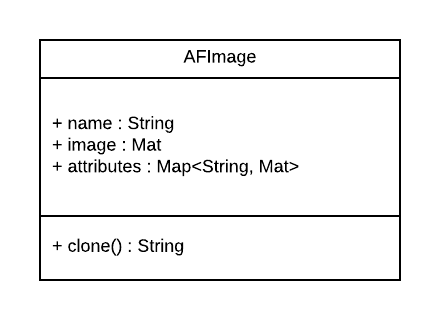
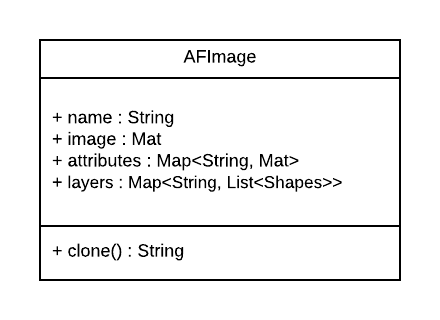
added dwg matrix fixed sharpening extension method

Changed region(s): [[0.1182, 0.3438, 0.7977, 0.5938], [0.0886, 0.6562, 0.9159, 0.7188], [0.1182, 0.75, 0.4136, 0.8125]]

diff --git a/afpars/src/main/kotlin/ch/fhnw/afpars/util/Extension.kt b/afpars/src/main/kotlin/ch/fhnw/afpars/util/Extension.kt
@@ -117,8 +117,9 @@ fun Mat.sharpen(sigmaX: Double = 3.0) {
 }
 
 fun Mat.sharpen(dest: Mat, sigmaX: Double = 3.0) {
-    Imgproc.GaussianBlur(this, dest, Size(0.0, 0.0), sigmaX)
-    Core.addWeighted(dest, 1.5, dest, -0.5, 0.0, dest)
+    val blurred = Mat()
+    Imgproc.GaussianBlur(this, blurred, Size(0.0, 0.0), sigmaX)
+    Core.addWeighted(this, 1.5, blurred, -0.5, 0.0, dest)
 }
 
 fun Mat.negate(dest: Mat) {

diff --git a/docs/thesis/Architecture.tex b/docs/thesis/Architecture.tex
@@ -21,9 +21,9 @@ Every part of the architecture has its own area of responsibility and is connect
 
 The software is built with the modern language \gls{gloss:Kotlin}, which is a statically typed programming language for the \acrfull{acro:JVM}. It supports special language features like extension methods, optional parameters and functional programming concepts, which all were used in this project and help to make the code more readable and maintainable. \cite{kotlin}
 
-The next sections show some examples where and how the new language are used in the software.
-
 \subsubsection{Extension Methods}
+This section show an example how the new language are used in the software.
+
 The language feature \flqq Extension Methods\frqq can be used to make the code more readable. It extends an existing object with a new method without the concept of inheritance.
 
 \begin{lstlisting}[caption={Erode image without extension methods},label={lst:imageOperations},language=Java]
@@ -47,17 +47,11 @@ image.threshold(128.0, 255.0, Imgproc.THRESH_BINARY)
 image.erode(3)
 \end{lstlisting}
 
-\subsubsection{Optional Parameters}
-
-\subsubsection{Functional Concepts}
-
-
-
 \pagebreak
 
-\subsection{Input / Output}
+\subsection{Meta Format}
 To support the different input and output formats the architecture uses a meta format for the
-floor plan images called AFImage. Different \gls{gloss:Drivers} \todo{Define drivers in the glossary} add the support for multiple file formats. With this architecture it is possible to extend the software with new file formats and work internally with the meta container.
+floor plan images called AFImage. Different \gls{gloss:Drivers} \todo{Define drivers in the glossary} add the support for multiple file formats. With this architecture it is possible to extend the software with new file formats and work internally with the meta container format.
 
 \begin{figure}[h]
   \centering
@@ -68,7 +62,33 @@ floor plan images called AFImage. Different \gls{gloss:Drivers} \todo{Define dri
 
 The meta container AFImage contains a map of attributes (see Figure \ref{fig:AFImage_CD}) which can be used by algorithms to get information created by other algorithms or to store information into an existing image.
 
-\todo{DWG / DXF Discussion}
+To interact with the user interface there is also a map of layers which contains shapes that are printed onto the image. The software uses this for example for recognised doors or rooms which are shown as overlay.
+
+\subsection{Input \& Output}
+
+\subsubsection{DWG / DXF}
+
+\begin{table}[h]
+\centering
+\caption{DWG / DXF Evaluation Result}
+\label{tbl:DWGEvaluationResult}
+\begin{tabular}{@{}lll@{}}
+\toprule
+Name         & Vendor         & Reason                                               \\ \midrule
+YCAD Library & Ed Karlo       & No documentation and very unintuitive.                \\
+Teigha       & ODA            & Too expensive and only for conversion.               \\
+Kabeja       & -              & Could not read the example document.                 \\
+Tika         & Apache         & Only a meta text reader.                             \\
+jnetcad      & Johannes Raida & Only a converter.                                    \\
+CaffViewer   & DeCaff         & Too expensive but able to read the example document. \\ \bottomrule
+\end{tabular}
+\end{table}
+
+
+
+\subsubsection{Scalable Vector Graphics}
+
+\subsubsection{Raster Image}
 
 \subsection{Algorithm}
 \todo{rewrite, this is nonsense}

diff --git a/docs/thesis/BachelorThesis.tex b/docs/thesis/BachelorThesis.tex
@@ -26,7 +26,10 @@
 \usepackage{subscript} 
 \usepackage{enumitem}
 \usepackage{subfig}
+
 \usepackage{listings}
+
+\usepackage{booktabs}
 
 \usepackage{fancyhdr}
 \pagestyle{fancy}
@@ -62,6 +65,7 @@
 \include{Theory}
 \include{Result}
 \include{Conclusion}
+\include{Annex}
 \include{DeveloperGuide}
 	
 \bibliography{quotations}
